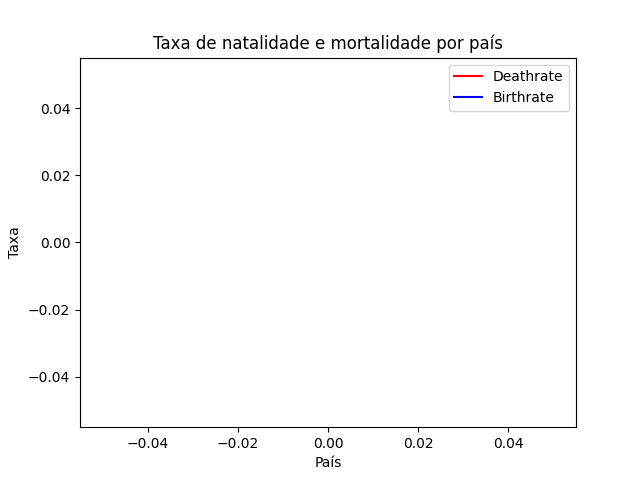
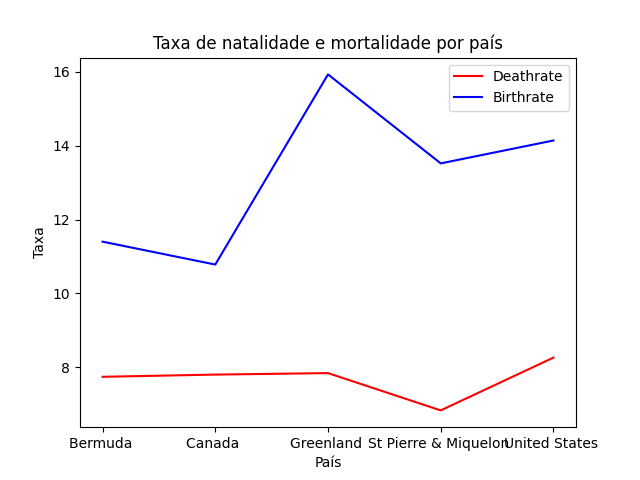
feat: ex5

diff --git a/ex5.py b/ex5.py
@@ -3,25 +3,27 @@ import pandas as pd
 
 
 # 1
-# dfEmpresas = pd.read_csv('data/space.csv', delimiter=';')
+dfEmpresas = pd.read_csv('data/space.csv', delimiter=';')
 
-# dfEmpresas = dfEmpresas.drop_duplicates(subset='Company Name')
-# empresas_EUA = dfEmpresas['Location'].str.contains('USA').sum()
-# empresas_CHINA = dfEmpresas['Location'].str.contains('China').sum()
+dfEmpresas = dfEmpresas.drop_duplicates(subset='Company Name')
+empresas_EUA = dfEmpresas['Location'].str.contains('USA').sum()
+empresas_CHINA = dfEmpresas['Location'].str.contains('China').sum()
 
-# print('Empresas dos EUA:', empresas_EUA)
-# print('Empresas dos CHINA:', empresas_CHINA)
-# plt.bar(['EUA', 'CHINA'], [empresas_EUA, empresas_CHINA], color=['blue', 'red'])
-# plt.xlabel('País')
-# plt.ylabel('Número de empresas')
-# plt.title('Empresas por país')
-# plt.savefig('empresas_por_pais.png')
-# plt.show()
+print('Empresas dos EUA:', empresas_EUA)
+print('Empresas dos CHINA:', empresas_CHINA)
+plt.bar(['EUA', 'CHINA'], [empresas_EUA, empresas_CHINA], color=['blue', 'red'])
+plt.xlabel('País')
+plt.ylabel('Número de empresas')
+plt.title('Empresas por país')
+plt.savefig('empresas_por_pais.png')
+plt.show()
 
 # 2
 dfPaises = pd.read_csv('data/paises.csv', delimiter=';')
 
-northern_america_countries = dfPaises[dfPaises['Region'] == 'Northern America']
+dfPaises['Region'] = dfPaises['Region'].str.strip()
+
+northern_america_countries = dfPaises[dfPaises['Region'] == 'NORTHERN AMERICA']
 
 plt.plot(northern_america_countries['Country'], northern_america_countries['Deathrate'], label='Deathrate', color='red')
 plt.plot(northern_america_countries['Country'], northern_america_countries['Birthrate'], label='Birthrate', color='blue')
